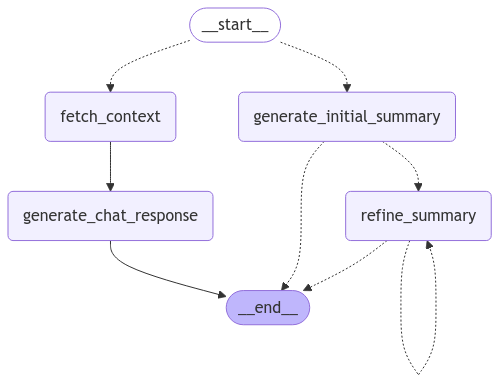
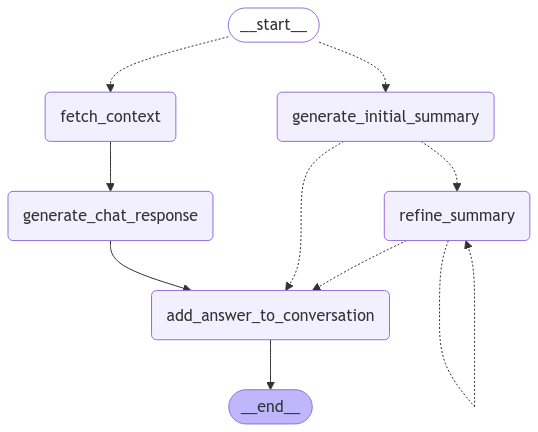
WIP: add memory to conversation graph

diff --git a/repository/chatbot.py b/repository/chatbot.py
@@ -24,19 +24,20 @@ class ChatBotRepository:
         chatbot.add_node("refine_summary", self.__generate_summary_refinement)
         chatbot.add_node("generate_chat_response", self.__generate_chat_response)
         chatbot.add_node("fetch_context", self.__fetch_context)
+        chatbot.add_node("add_answer_to_conversation", self.__add_answer_to_conversation)
 
         chatbot.add_conditional_edges(source=START, path=self.__should_summarize)
         chatbot.add_edges(start_key="fetch_context", end_key="generate_chat_response")
-        chatbot.add_edges(start_key="generate_chat_response", end_key=END)
+        chatbot.add_edges(start_key="generate_chat_response", end_key="add_answer_to_conversation")
         chatbot.add_conditional_edges(source="generate_initial_summary", path=self.__should_refine)
         chatbot.add_conditional_edges(source="refine_summary", path=self.__should_refine)
+        chatbot.add_edges(start_key="add_answer_to_conversation", end_key=END)
 
         compiled_graph = chatbot.compile_graph(checkpointer=self.checkpointer)
         self.chat_states[thread_id] = compiled_graph
         return compiled_graph
 
     def get_chatbot(self, thread_id: str) ->CompiledGraph:
-        print("in repo", self.chat_states)
         chat_bot = self.chat_states.get(thread_id)
         return chat_bot
     
@@ -84,9 +85,6 @@ class ChatBotRepository:
     
     def __generate_summary_refinement(self, state: State, config: RunnableConfig):
         self.app.logger.info("on __generate_summary_refinement")
-        print(state.get("answer"))
-        print(state.get("document_from_user")[state.get("index")])
-        print(state.get("index"))
         refined_summary = self.__create_summary_refinement_chain().invoke(
                 {
                     "existing_answer": state["answer"],
@@ -98,23 +96,21 @@ class ChatBotRepository:
     
     def __generate_chat_response(self, state: State):
         self.app.logger.info("on __generate_chat_response")
-        print(state)
         chain = self.__create_answer_chain()
-        print(chain)
         answer = chain.invoke(
           {    
-            "question": state["question"],
+            "question": state["conversation"],
             "context": state["context"]
           }
         )
         self.app.logger.info(answer)
         return {"answer": answer}
     
-    def __should_refine(self, state: State) -> Literal["refine_summary", END]:
+    def __should_refine(self, state: State) -> Literal["refine_summary", "add_answer_to_conversation"]:
         self.app.logger.info("on __should_refine")
         if state["index"] >= len(state["document_from_user"]):
-            self.app.logger.info("go to END")
-            return END
+            self.app.logger.info("go to add_answer_to_conversation")
+            return "add_answer_to_conversation"
         else:
             self.app.logger.info("go to refine summary")
             return "refine_summary"
@@ -128,14 +124,17 @@ class ChatBotRepository:
         return "generate_initial_summary"
 
     def __fetch_context(self, state: State) -> State:
-        self.app.logger.info("on __fetch_context")
         relevant_docs_with_score = self.pgvector.vector_store.similarity_search_with_relevance_scores(
-            query=state["question"],
+            query=state.get("conversation")[-1].content,
             score_threshold=0.6
         )
         context = "\n".join([similiar_document[0].page_content for similiar_document in relevant_docs_with_score])
-        self.app.logger.info(context)
         return {"context": context}
+    
+    def __add_answer_to_conversation(self, state: State)-> State:
+        print(state.get("conversation"))
+        self.app.logger.info("on __add_response_to_conversation")
+        return {"conversation": [state.get("answer")]}
     
 
         

diff --git a/repository/document.py b/repository/document.py
@@ -49,6 +49,23 @@ class DocumentRepository:
             )
             document.set_multinancy_attr(project_uuid=project_uuid, tenant_id=tenant_id)
             return document
+    
+    def get_document_by_name(self, document: DocumentDb)-> DocumentDb:
+        sql = "select uuid, document_name, is_processed, document_type_id, created_at, updated_at, tenant_id, projects_uuid from documents where document_name = %s AND tenant_id = %s limit 1"
+        data = (document.document_name,document.tenant_id)
+        self.app.logger.info("get document with where {} {}".format( document.uuid, document.tenant_id))
+        self.cursor.execute(sql, data)
+        results = self.cursor.fetchall()
+        if results.__len__() == 0:
+            raise ResourceNotFound("resource not found")
+        for row in results:
+            uuid, document_name, is_processed, document_type, created_at, updated_at, tenant_id, project_uuid = row
+            document = DocumentDb(
+                uuid=uuid, document_name=document_name, is_processed=is_processed,
+                document_type=document_type, created_at=created_at, updated_at=updated_at
+            )
+            document.set_multinancy_attr(project_uuid=project_uuid, tenant_id=tenant_id)
+            return document
 
     def store_document(self, document: Document):
         sql = "INSERT INTO documents(uuid, document_name, is_processed, document_type_id, created_at, updated_at, projects_uuid, tenant_id) VALUES (%s, %s, %s, %s, %s, %s, %s, %s);"

diff --git a/usecase/document.py b/usecase/document.py
@@ -5,7 +5,7 @@ from entity.document import Document, DocumentDb
 from flask import current_app
 from typing import List
 from static.enum import FileType
-from langchain_core.documents import Document
+from langchain_core.documents import Document as LangchainDocument
 
 class DocumentUsecase:
     def __init__(self, document_repository: DocumentRepository, storage_repository: StorageRepository, ollama_adapter: GenerativeAdapter):
@@ -15,6 +15,12 @@ class DocumentUsecase:
         self.app = current_app
 
     def store_document(self, document: Document):
+        document_db_from_file = DocumentDb(document_name=document.file.filename)
+        document_db_from_file.set_multinancy_attr(project_uuid=document.project_uuid, tenant_id=document.tenant_id)
+        document_db = self.document_repository.get_document_by_name(document_db_from_file)
+        if document_db.document_name != "":
+            self.app.logger.info("document already exist: {}".format(document_db.document_name))
+            return document_db
         self.app.logger.info("processing file {}".format( document.file.filename))
         self.storage_repository.store_document(document=document)
         return self.document_repository.store_document(document=document)

diff --git a/entity/conversation.py b/entity/conversation.py
@@ -30,6 +30,7 @@ class State(TypedDict):
     answer: str
     index: int
     document_from_user: List[Document]
+    conversation: Annotated[list, add_messages]
 
 class ConversationalChatbot:
     def __init__(self):
@@ -45,7 +46,7 @@ class ConversationalChatbot:
         self._graph_builder.add_edge(start_key, end_key)
 
     def compile_graph(self, checkpointer: BaseCheckpointSaver) -> CompiledGraph:
-        app = self._graph_builder.compile()
+        app = self._graph_builder.compile(checkpointer=checkpointer)
         image_data = app.get_graph().draw_mermaid_png()
 
         # Convert the image data to a PIL Image object

diff --git a/handler/routes.py b/handler/routes.py
@@ -39,9 +39,7 @@ class Routes:
                 document_uuid = req["uuid"]
                 document = DocumentDb(uuid=document_uuid)
                 document.set_multinancy_attr(project_uuid="", tenant_id=tenant_id)
-                print(document.__dict__)
                 deleted_document = self.document_usecase.delete_document(document=document)
-                print(deleted_document.__dict__)
                 if deleted_document.uuid == "":
                     return jsonify({"error": "document not found"}), 404
                 return jsonify({"message":"document with {} uuid is deleted".format(document_uuid)})

diff --git a/usecase/conversation.py b/usecase/conversation.py
@@ -21,7 +21,7 @@ class ConversationUsecase:
             self.app.logger.info("conversation for {} id is created".format(conversation.conversation_uuid))
         config = {"configurable": {"thread_id": conversation.conversation_uuid}}
         response = chatbot.invoke(
-            input={"question": conversation.message, "document_from_user": conversation.document_from_user},
+            input={"conversation": [{"role": "user", "content": conversation.message}], "document_from_user": conversation.document_from_user},
             config=config,
             stream_mode="values"
         )

diff --git a/infra/storage.py b/infra/storage.py
@@ -30,7 +30,6 @@ class StorageRepository:
     def load_image_with_langchain(self, image_db: DocumentDb) -> List[LangchainDocument]:
         image = open_image("{}/{}/{}".format(self.__FILE_PATH__, image_db.project_uuid, image_db.document_name))
         text_from_image: str = image_to_string(image=image)
-        print(text_from_image)
         langchain_images: List[LangchainDocument] = list()
         langchain_image: LangchainDocument = LangchainDocument(page_content=text_from_image)
         langchain_image.metadata["tenant_id"] = image_db.tenant_id